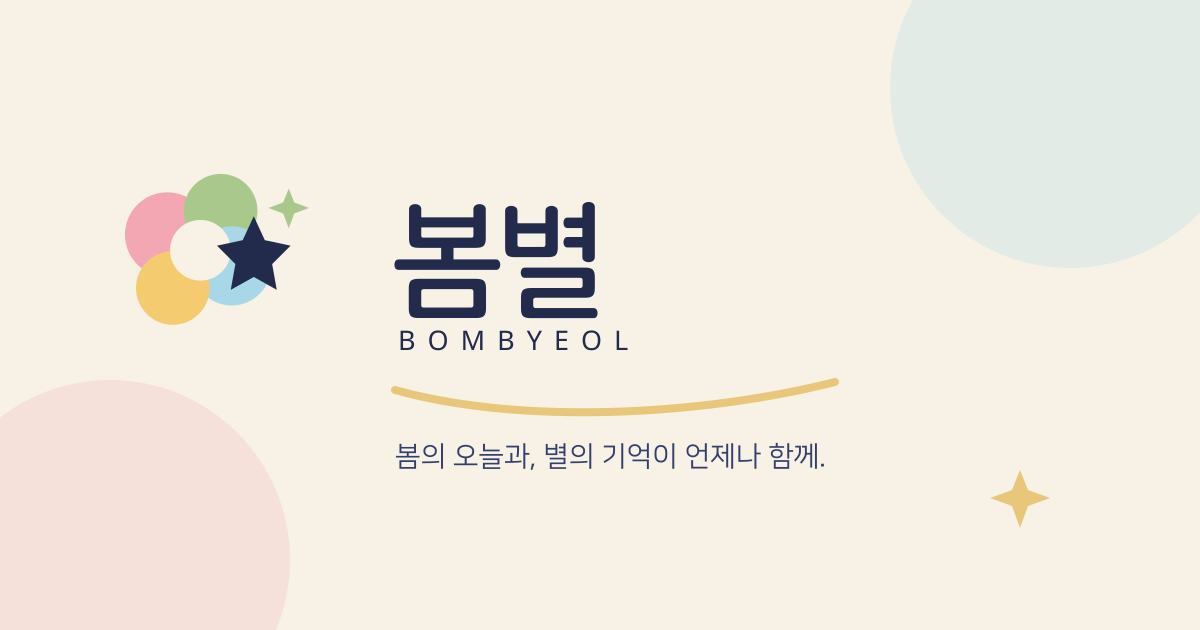
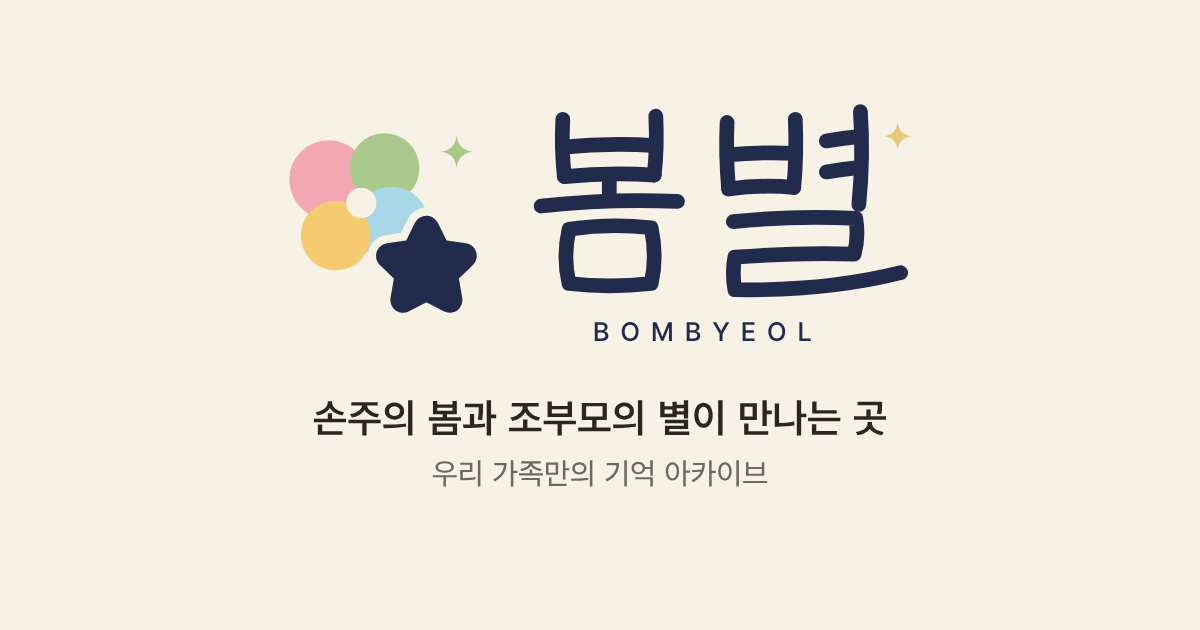
docs: 로고 S2+W2 확정과 파생 에셋(로고·파비콘·앱 아이콘·OG) 재생성
Claude-Session: https://claude.ai/code/session_01Q6tqcn1jKLbV7ebPxi8tQp

Changed region(s): [[0.0925, 0.1508, 0.7708, 0.573], [0.2467, 0.6032, 0.74, 0.7841], [0.8325, 0.754, 0.8942, 0.8444]]

diff --git a/docs/mockups/2026-10-02-logo/final/index.html b/docs/mockups/2026-10-02-logo/final/index.html
@@ -1,0 +1,34 @@
+<!doctype html><html lang="ko"><head><meta charset="utf-8"><title>봄별 로고 파생 에셋</title>
+<style>
+*{box-sizing:border-box}body{margin:0;font:14px/1.5 system-ui,sans-serif;background:#E9E4DA;color:#2C2621}
+.board{padding:28px;width:max-content}h1{font-size:20px;margin:0 0 16px}h2{font-size:15px;margin:0 0 10px}
+.card{background:#F7F1E6;border-radius:18px;padding:18px 22px;margin-bottom:16px}.row{display:flex;gap:22px;align-items:flex-end}
+.c{display:flex;flex-direction:column;align-items:center;gap:6px;font-size:12px}.navy{background:#232B4D;color:#F7F1E6;border-radius:14px;padding:12px}
+.tab{display:flex;align-items:center;gap:8px;padding:8px 14px;border-radius:10px 10px 0 0;width:220px;font-size:13px}
+.tab.l{background:#fff;color:#222}.tab.d{background:#35363a;color:#eee}
+.mask{position:relative;width:192px;height:192px}.mask img{width:192px;height:192px;display:block;border-radius:50%}
+.mask.sq img{border-radius:0}.mask.sq::after{content:"";position:absolute;inset:19.2px;border:2px dashed #E05;border-radius:50%}
+.home{display:flex;gap:18px;background:#4a5a7a;padding:16px;border-radius:14px}.home div{display:flex;flex-direction:column;align-items:center;gap:6px;color:#fff;font-size:12px}
+.home img{width:64px;height:64px;border-radius:15px}.home img.r{border-radius:50%}
+</style></head><body><div class="board"><h1>봄별 로고 확정 조합 S2 + W2 — 파생 에셋</h1>
+<div class="card"><h2>로고</h2><div class="row">
+<div class="c"><img src="../../../../image-asset/logo/primary.png" width="440"><span>primary</span></div>
+<div class="c navy"><img src="../../../../image-asset/logo/primary-dark.png" width="440"><span>primary-dark</span></div>
+<div class="c"><img src="../../../../image-asset/logo/monochrome.png" width="330"><span>monochrome</span></div>
+<div class="c"><img src="../../../../image-asset/logo/stacked.png" width="150"><span>stacked</span></div>
+</div></div>
+<div class="card"><h2>파비콘 — 밝은/어두운 탭(SVG는 탭 색에 맞춰 별 색이 바뀜, PNG는 paper 바탕)</h2><div class="row">
+<div class="c"><div class="tab l"><img src="../../../../image-asset/icon/favicon.svg" width="16">봄별 · 우리 가족</div><span>favicon.svg 16px, 밝은 탭</span></div>
+<div class="c"><div class="tab d"><img src="dark-fav.svg" width="16">봄별 · 우리 가족</div><span>favicon.svg 16px, 어두운 탭(미디어 쿼리 결과 재현)</span></div>
+<div class="c"><img src="../../../../image-asset/icon/favicon-16.png" width="16"><span>16</span></div>
+<div class="c"><img src="../../../../image-asset/icon/favicon-32.png" width="32"><span>32</span></div>
+<div class="c"><img src="../../../../image-asset/icon/favicon-48.png" width="48"><span>48</span></div>
+</div></div>
+<div class="card"><h2>앱 아이콘 — 홈 화면(iOS 둥근 사각·Android 원형), 마스커블 안전 영역(빨간 점선 = 지름 80%)</h2><div class="row">
+<div class="home"><div><img src="../../../../image-asset/icon/icon-180.png">iOS</div><div><img class="r" src="../../../../image-asset/icon/maskable-512.png">Android</div><div><img src="../../../../image-asset/icon/icon-192.png">PWA</div></div>
+<div class="c"><div class="mask sq"><img src="../../../../image-asset/icon/maskable-512.png"></div><span>maskable-512 + 안전 영역</span></div>
+<div class="c"><div class="mask"><img src="../../../../image-asset/icon/maskable-512.png"></div><span>원형으로 잘렸을 때</span></div>
+<div class="c"><img src="../../../../image-asset/icon/icon-512.png" width="192"><span>icon-512</span></div>
+</div></div>
+<div class="card"><h2>공유 이미지(OG 1200×630) — 카카오톡·메신저 미리보기</h2><div class="row"><div class="c"><img src="../../../../image-asset/og/og-image.png" width="600"><span>og-image.png</span></div></div></div>
+</div></body></html>

diff --git a/image-asset/logo-v2/build.py b/image-asset/logo-v2/build.py
@@ -88,6 +88,7 @@ def hangul(style):
     return d
 
 def latin(font_path, text="BOMBYEOL", size=17.0, track=0.42, wght=520):
+    """텍스트를 Pretendard 윤곽선 경로로(OFL — 로고·이미지 사용 허용). 반환: (d, 폭)"""
     from fontTools.ttLib import TTFont
     from fontTools.varLib import instancer
     from fontTools.pens.svgPathPen import SVGPathPen
@@ -97,6 +98,7 @@ def latin(font_path, text="BOMBYEOL", size=17.0, track=0.42, wght=520):
     gs = f.getGlyphSet(); cmap = f.getBestCmap(); upm = f["head"].unitsPerEm; s = size / upm
     x = 0.0; paths = []
     for ch in text:
+        if ch == " ": x += size * 0.28 + size * track; continue
         gn = cmap[ord(ch)]; pen = SVGPathPen(gs)
         gs[gn].draw(TransformPen(pen, (s, 0, 0, -s, x, 0)))
         paths.append(pen.getCommands()); x += gs[gn].width * s + size * track
@@ -138,5 +140,57 @@ def main(font):
         (OUT / n).write_text(s, encoding="utf-8")
     print(len(files), "files")
 
+# ── 확정 파생 에셋(사용자 선택 2026-10-02: S2 + W2) ────────────────────
+FINAL_S, FINAL_W = "S2", "W2"
+
+def derive(font):
+    """image-asset/logo·icon·og에 확정 조합의 파생 에셋 SVG를 쓴다. PNG는 render.mjs가 만든다."""
+    A = OUT.parent; ld, lw = latin(font)
+    S, W = FINAL_S, FINAL_W
+    sym = lambda **k: symbol(S, k.pop("bg", C["paper"]), **k)
+    lock = lambda wc, **k: (f'<g transform="translate(0 6) scale(1.5)">{sym(**k)}</g>'
+                            f'<g transform="translate(176 8)">{wordmark(W, wc, ld, lw)}</g>')
+    files = {
+        "logo/symbol.svg": svg(100, 100, sym(), "봄별 심볼"),
+        "logo/symbol-dark.svg": svg(100, 100, sym(bg=C["navy"], dark=True), "봄별 심볼(어두운 바탕용)"),
+        "logo/wordmark.svg": svg(252, 162, wordmark(W, C["navy"], ld, lw), "봄별 워드마크"),
+        "logo/wordmark-dark.svg": svg(252, 162, wordmark(W, C["paper"], ld, lw), "봄별 워드마크(어두운 바탕용)"),
+        "logo/primary.svg": svg(440, 172, lock(C["navy"]), "봄별 로고"),
+        "logo/primary-dark.svg": svg(440, 172, lock(C["paper"], bg=C["navy"], dark=True), "봄별 로고(어두운 바탕용)"),
+        "logo/monochrome.svg": svg(440, 172, lock(C["ink"], mono=C["ink"]).replace(C["gold"], C["ink"]), "봄별 로고 단색"),
+        "logo/stacked.svg": svg(252, 300, f'<g transform="translate(66 0) scale(1.2)">{sym()}</g><g transform="translate(0 132)">{wordmark(W, C["navy"], ld, lw)}</g>', "봄별 로고 세로"),
+    }
+    # 파비콘 SVG: 바탕을 모르므로 틈·가운데 점은 마스크로 뚫고, 탭이 어두우면 별을 silver로(SVG 안 미디어 쿼리)
+    pts = star_pts(72, 70, 17, 8.5)
+    petals = "".join(f'<circle cx="{x}" cy="{y}" r="{r}" fill="{C[k]}"/>' for x, y, r, k in [(30, 32, 17, "pink"), (54, 27, 15, "green"), (57, 51, 16, "sky"), (33, 56, 15, "yellow")])
+    files["icon/favicon.svg"] = svg(100, 100,
+        f'<style>.st{{fill:{C["navy"]};stroke:{C["navy"]}}}@media (prefers-color-scheme: dark){{.st{{fill:{C["silver"]};stroke:{C["silver"]}}}}}</style>'
+        f'<mask id="m"><rect width="100" height="100" fill="#fff"/><circle cx="44" cy="42" r="6.5" fill="#000"/>'
+        f'<polygon points="{pts}" fill="#000" stroke="#000" stroke-width="18" stroke-linejoin="round"/></mask>'
+        f'<g mask="url(#m)">{petals}</g><polygon class="st" points="{pts}" stroke-width="11" stroke-linejoin="round"/>', "봄별")
+    # 래스터용 원본(꽉 찬 paper 바탕)
+    full = lambda k, dark=False: svg(100, 100, f'<g transform="translate({50-50*k:.2f} {50-50*k:.2f}) scale({k})">{symbol(S, C["navy"] if dark else C["paper"], dark=dark, small=True)}</g>', "봄별 아이콘", bg=C["navy"] if dark else C["paper"])
+    files["icon/_app.svg"] = full(0.86)            # 180·192·512·1024 (OS가 모서리를 깎음)
+    files["icon/_maskable.svg"] = full(0.6)        # 안전 영역(지름 80% 원) 안, 별 끝 여유 확보
+    files["icon/_favicon-png.svg"] = svg(100, 100, f'<g transform="translate(3 3) scale(.94)">{symbol(S, C["paper"], small=True)}</g>', "봄별", bg=C["paper"], rx=22)
+    # OG 1200×630
+    tag_d, tag_w = latin(font, "손주의 봄과 조부모의 별이 만나는 곳", size=40, track=0.0, wght=600)
+    sub_d, sub_w = latin(font, "우리 가족만의 기억 아카이브", size=30, track=0.0, wght=450)
+    # 가운데 정렬 — 메신저가 가운데를 잘라도 로고·문구가 남게
+    k = 1.55; lx = 600 - 440 * k / 2
+    files["og/og-image.svg"] = svg(1200, 630,
+        f'<g transform="translate({lx:.1f} 96) scale({k})">{lock(C["navy"])}</g>'
+        f'<path transform="translate({600 - tag_w/2:.1f} 432)" d="{tag_d}" fill="{C["ink"]}"/>'
+        f'<path transform="translate({600 - sub_w/2:.1f} 484)" d="{sub_d}" fill="#6F6860"/>',
+        "봄별 — 손주의 봄과 조부모의 별이 만나는 곳", bg=C["paper"])
+    for n, body in files.items():
+        (A / n).write_text(body, encoding="utf-8")
+    (A / "icon/manifest-icons.json").write_text(
+        '[\n  {"src":"/brand/icon/icon-192.png","sizes":"192x192","type":"image/png","purpose":"any"},\n'
+        '  {"src":"/brand/icon/icon-512.png","sizes":"512x512","type":"image/png","purpose":"any"},\n'
+        '  {"src":"/brand/icon/maskable-512.png","sizes":"512x512","type":"image/png","purpose":"maskable"}\n]\n', encoding="utf-8")
+    print(len(files), "derived")
+
 if __name__ == "__main__":
     main(sys.argv[1])
+    derive(sys.argv[1])

diff --git a/docs/PROGRESS.md b/docs/PROGRESS.md
@@ -33,11 +33,12 @@
 - **2026-10-02 B안 선택 → L2 제안**: 사용자가 B안(날짜별 앨범) 선택. `DESIGN.md` §10(간격 8단계·라운드 3단계+원·선 3단계·글자 5단계 rem·심볼 기반 아이콘) + 2차 목업 [`mockups/2026-10-02-b-l2/`](mockups/2026-10-02-b-l2/)(3탭·사진 시트+토스트·이야기 빈 화면·글자 크게·온보딩, 라이트/다크) + `check.py`(토큰 밖 값 0, 대비 16개 통과). Q-STORYBG 해결(navy), Q-HONOR 잠정(해요체 + 어르신 화면만 "~세요"). 미리보기 서버 루트를 `docs/mockups/`로 옮김(`http://localhost:8765/2026-10-02-b-l2/b2.html`).
 - **2026-10-02 모션 프로토타입**: [`mockups/2026-10-02-proto/`](mockups/2026-10-02-proto/) — B안 오늘·이야기를 직접 눌러 보는 HTML(시트·끌어 닫기·토스트·누름 2px·별 하나 boop·사진 안착·마일스톤 반짝임·탭 페이드, 설정판: 테마·글자·움직임 줄이기·×5 느리게·시트 500/350·토스트 4/6초). `DESIGN.md` §11 모션 토큰 후보. Playwright 28항목 통과, 시연 영상 `shots/demo.webm`, 시트 프레임 띠. 실기기·스크린리더는 미확인.
 - **2026-10-02 사용자 선택**: 시트 350ms·토스트 6초(DESIGN §11, 프로토타입 기본값 반영, 테스트 28/28 재통과). **로고 v2 후보**: `image-asset/logo-v2/`(심볼 S1·S2·S3 × 워드마크 W1·W2, 한글 워드마크는 직접 그린 경로, 생성기 `build.py`) + 검토판 `docs/mockups/2026-10-02-logo/`. 추천 S2+W2, 사용자 선택 대기.
+- **2026-10-02 로고 확정(S2 + W2) + 파생 에셋**: `image-asset/logo/`(primary·primary-dark·stacked·symbol·wordmark·monochrome, SVG+PNG), `icon/`(favicon.svg — 어두운 탭이면 별 silver, favicon 16·32·48, apple 180, PWA 192·512·1024, maskable 512 — 이전 파일은 1024px로 잘못돼 있었음), `og/og-image`(가운데 정렬). 생성기 `logo-v2/build.py` + `logo-v2/render.mjs`. 검토판 `docs/mockups/2026-10-02-logo/final/`.
 - 환경 메모: 기존 스위트에서 3번 중 1번 테스트 1건이 실패했다가 재실행에 통과(어떤 테스트인지 기록 못 함 — 다음에 반복 실행으로 찾을 것). Docker Hub 429로 `db:up` 첫 시도 실패, 재시도 성공. 컨테이너에 한글 폰트가 없어 목업 스크린샷은 Pretendard woff2를 받아 Playwright route로 주입(스크래치패드, 리포에 넣지 않음).
 
 ### 다음 할 일 (Phase DS 1차 이후)
 
-1. **사용자**: 로고 v2에서 심볼·워드마크 고르기(추천 S2+W2) → 파생 에셋 재생성. 그 뒤 Q-FONT(손글씨 쓸지) → 토큰 확정(Phase DS 마지막) → Phase 0 `chore(design-system)` 토큰 이식. 실기기(어르신 폰)에서 프로토타입 열어 보기는 계속 권장.
+1. **사용자**: Q-FONT(손글씨 폰트를 쓸지 — 워드마크가 이미 손맛을 맡았으니 Pretendard 단일도 선택지) → 토큰 확정(Phase DS 마지막) → Phase 0 `chore(design-system)` 토큰 이식 + 로고·아이콘을 `public/`에 넣는 커밋. 실기기(어르신 폰)에서 프로토타입 열어 보기는 계속 권장.
 2. 그 뒤 Phase DS 남은 것: 로고(Q-LOGO)·손글씨(Q-FONT) 결정, 토큰 확정(모션 토큰 후보 표에서 고르기) + 대비 검증 표. 확정 전에는 코드에 토큰을 넣지 않는다.
 3. **사용자**: Q-PAY 선택(선결: 사업자 등록 여부). 고르면 ENV_MANIFEST Phase 8 키 이름부터 채우고 Phase 8 착수.
 4. e2e 커밋(f089b91)은 main 머지 대기 — 사용자 확인 후 PR.

diff --git a/image-asset/brand/asset-index.md b/image-asset/brand/asset-index.md
@@ -1,19 +1,22 @@
-# Asset index
+# 봄별 에셋 목록 (2026-10-02 갱신 — 로고 S2 + W2 확정)
 
-| File | Role |
+모든 파생 에셋은 `logo-v2/build.py`(SVG) → `logo-v2/render.mjs`(PNG)로 다시 만든다. 손으로 고치지 않는다.
+
+| 파일 | 용도 |
 |---|---|
-| `concept/logo-concepts.png` | Original exploration board / decision archive |
-| `logo/primary.svg` | Main light-background lockup |
-| `logo/primary-dark.svg` | Main dark-background lockup |
-| `logo/symbol.svg` | Light symbol-only mark |
-| `logo/symbol-dark.svg` | Dark symbol-only mark |
-| `logo/wordmark.svg` | Wordmark-only lockup |
-| `logo/monochrome.svg` | One-color print/constrained use |
-| `icon/favicon.svg` | SVG favicon / symbol icon |
-| `icon/icon-180.png` | Apple touch icon size |
-| `icon/icon-192.png` | PWA icon |
-| `icon/icon-512.png` | PWA / general app icon |
-| `icon/maskable-512.png` | Maskable PWA icon |
-| `og/og-image.png` | Social/Open Graph image |
-| `palette/colors.css` | Raw brand color variables |
-| `brand/tokens.css` | Semantic UI-facing brand variables |
+| `logo/primary.svg` · `.png` | 가로 로고(심볼 + 워드마크), 밝은 바탕 |
+| `logo/primary-dark.svg` · `.png` | 가로 로고, 어두운 바탕(글자 paper, 별 silver) — 바탕은 투명 |
+| `logo/stacked.svg` · `.png` | 세로 로고(스플래시·온보딩) |
+| `logo/symbol.svg` · `.png` / `symbol-dark` | 심볼만(앱 안 헤더·프로필) |
+| `logo/wordmark.svg` · `.png` / `wordmark-dark` | 워드마크만 |
+| `logo/monochrome.svg` · `.png` | 단색(ink) — 인쇄·제약 환경 |
+| `icon/favicon.svg` | SVG 파비콘 — 브라우저가 어두우면 별이 silver로(파일 안 미디어 쿼리), 틈은 마스크라 바탕 무관 |
+| `icon/favicon-16/32/48.png` | PNG 파비콘(paper 둥근 바탕) |
+| `icon/icon-180.png` | apple-touch-icon(꽉 찬 paper, iOS가 모서리를 깎음) |
+| `icon/icon-192.png` · `icon-512.png` · `icon-1024.png` | PWA·스토어 |
+| `icon/maskable-512.png` | 안드로이드 마스커블(심볼이 지름 80% 안전 원 안) |
+| `icon/manifest-icons.json` | 매니페스트 `icons` 조각 |
+| `icon/_app.svg` · `_maskable.svg` · `_favicon-png.svg` | PNG 원본(직접 쓰지 않음) |
+| `og/og-image.svg` · `.png` | 공유 이미지 1200×630(가운데 정렬 — 메신저가 가운데를 잘라도 남음) |
+| `logo-v2/` | 후보 전부(S1·S2·S3 × W1·W2)와 생성기 — 결정 기록 |
+| `concept/logo-concepts.png` | 처음 탐색 보드 — 결정 기록 |

diff --git a/docs/DESIGN.md b/docs/DESIGN.md
@@ -10,6 +10,7 @@
 
 - `concept/logo-concepts.png` — 6안 탐색 보드(의사결정 기록). 대화에서 "1번 심볼 + 6번 계열 타이포" 방향을 골랐다.
 - `logo/*.svg` — 실사용 후보. **주의: 생성된 SVG는 보드의 1번 심볼(꽃 + 별의 일체형 그라디언트)을 단순 도형(원 4개 + 별)으로 재구성한 거친 버전**이라 보드의 완성도에 못 미친다. 로고 재제작 여부는 폴리시 단계에서 결정(`OPEN_QUESTIONS.md` Q-LOGO).
+- **로고 확정(2026-10-02, 사용자 선택): 심볼 S2(네 꽃잎 + 둥근 남색 별, 어두운 바탕에서는 별 silver) + 워드마크 W2(직접 그린 한글 단선 + 손맛 곡선 + 골드 반짝임).** `logo/`·`icon/`·`og/`는 이 조합에서 생성기로 다시 만들었다(`image-asset/brand/asset-index.md`). 오늘 탭 아이콘(§10.5)과 같은 네 꽃잎 도형.
 - `logo-v2/*` — **2026-10-02 다시 그린 후보**(심볼 S1·S2·S3, 워드마크 W1·W2, 생성기 `build.py`). 비교·추천은 `docs/mockups/2026-10-02-logo/README.md`. 고르면 `logo/`·`icon/`·`og/`를 여기서 다시 파생한다.
 - `icon/*`, `og/*` — PWA 아이콘·공유 이미지 파생본. 심볼이 확정되면 다시 파생해야 한다.
 - 워드마크 폰트: 보드에서는 손글씨풍(온글잎 '이는', '박다현체')이 언급되나 **온글잎 폰트 제작 서비스는 종료**됐고 일부 폰트의 웹폰트 사용 라이선스는 폰트별로 확인이 필요하다(연구 문서 §5).

diff --git a/docs/COMMIT_PLAN.md b/docs/COMMIT_PLAN.md
@@ -26,7 +26,7 @@
 ## Phase DS — 봄별 디자인 스프린트 (Kaddie 디자인이 자리 잡은 뒤, 코드 UI 전)
 
 - [ ] 레퍼런스 1차 자료 정독(`design-research` §7) → `DESIGN.md` 화면 규칙화 — 2026-10-01 1차 반영(`design-research/2026-10-01-primary-sources.md`, `DESIGN.md` §9 초안), 사용자 확인 대기
-- [ ] 로고 확정(Q-LOGO: 기존 SVG 재제작 여부)과 손글씨 폰트 확정(Q-FONT, 라이선스 확인) — 2026-10-02 로고 v2 후보(`image-asset/logo-v2/`, 검토판 `docs/mockups/2026-10-02-logo/`) 사용자 선택 대기
+- [ ] 로고 확정(Q-LOGO: 기존 SVG 재제작 여부)과 손글씨 폰트 확정(Q-FONT, 라이선스 확인) — 로고는 2026-10-02 **S2 + W2 결정·파생 에셋 생성**(`image-asset/logo-v2/build.py`·`render.mjs`). 남은 것: 손글씨(Q-FONT)
 - [ ] 오늘·이야기·우리 3탭, 어르신 온보딩의 **정적 HTML 목업 2~3안** → 스크린샷으로 사용자 확인·선택 — 2026-10-01 3안 작성(`docs/mockups/2026-10-01-ds/`), **2026-10-02 사용자 B안 선택** → L2 시스템 제안(`DESIGN.md` §10, `docs/mockups/2026-10-02-b-l2/`) 사용자 확인 대기
 - [ ] 토큰 확정(색·서체·간격·모션 곡선), 대비 검증 테스트표 — 2026-10-02 후보: 다크(§3.1)·L2 스케일(§10)·모션(§11, 프로토타입 `docs/mockups/2026-10-02-proto/`), 대비 검사 `mockups/2026-10-02-b-l2/check.py`. 사용자 확정 대기
 

diff --git a/docs/OPEN_QUESTIONS.md b/docs/OPEN_QUESTIONS.md
@@ -11,7 +11,7 @@
 - **선결 질문**: 개인사업자(또는 법인)를 등록할 계획인가? 그렇지 않다면 (b)/(c). Phase 8 착수 전까지 결정.
 - **결정 자료(2026-10-01)**: [`research/2026-10-01-q-pay-providers.md`](research/2026-10-01-q-pay-providers.md) — 공식 문서 기준 비교표(토스페이먼츠·포트원 V2·Paddle·Polar·Lemon Squeezy 등). 요약: 사업자 등록 시 포트원 V2(+토스페이먼츠, 예약 결제로 자체 스케줄러 불필요) / 미등록 시 Paddle(대안 Polar) / (c) 무료 출시. 일부 가입 조건·수수료는 검색 요약 근거라 계약 전 재확인 표시. 구현은 사용자 선택 후.
 
-### Q-LOGO — 로고 확정
+### Q-LOGO — 로고 확정 — **해결(2026-10-02): S2 + W2**, 파생 에셋 재생성 완료(`image-asset/brand/asset-index.md`)
 - **2026-10-02 v2 후보 작성**: 심볼 3안(S1 다섯 꽃잎 / S2 네 꽃잎·아이콘 계열 / S3 그라디언트) × 워드마크 2안(W1 둥근 단선 / W2 손맛 곡선), 전부 SVG·생성기(`image-asset/logo-v2/`), 검토판 `docs/mockups/2026-10-02-logo/`. 추천 S2 + W2(작은 크기 생존·아이콘 세트와 한 가족·보드 6번의 손맛). 사용자 선택 대기.
 - `image-asset/logo`의 SVG는 보드 1번 심볼을 단순화한 거친 버전. 그대로 쓸지, 보드 기준으로 다시 제작할지, 어디에 쓸지(앱 아이콘·워드마크·OG) 결정.
 

diff --git a/image-asset/README.md b/image-asset/README.md
@@ -4,7 +4,7 @@
 
 ## Direction
 
-**1번의 귀여운 꽃 + 별 심볼**을 고정하고, **6번 계열의 따뜻하지만 절제된 인간적 타이포그래피**를 결합했습니다.
+**1번의 꽃 + 별 심볼**을 고정하고 **6번 계열의 손맛 있는 타이포**를 결합했습니다. 2026-10-02 다시 그린 v2에서 **심볼 S2(네 꽃잎 + 둥근 남색 별) + 워드마크 W2(손맛 곡선)**로 확정 — `logo-v2/`, 목록은 `brand/asset-index.md`.
 
 브랜드의 두 축:
 
